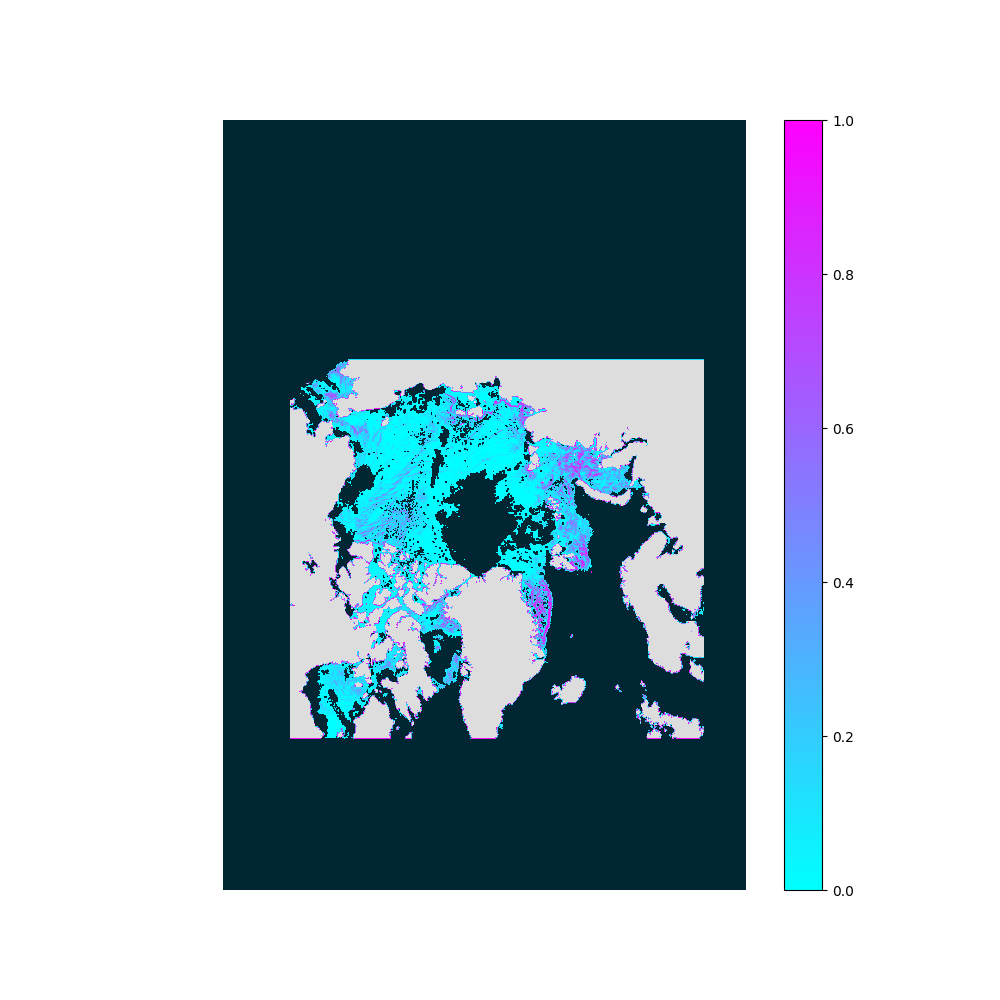
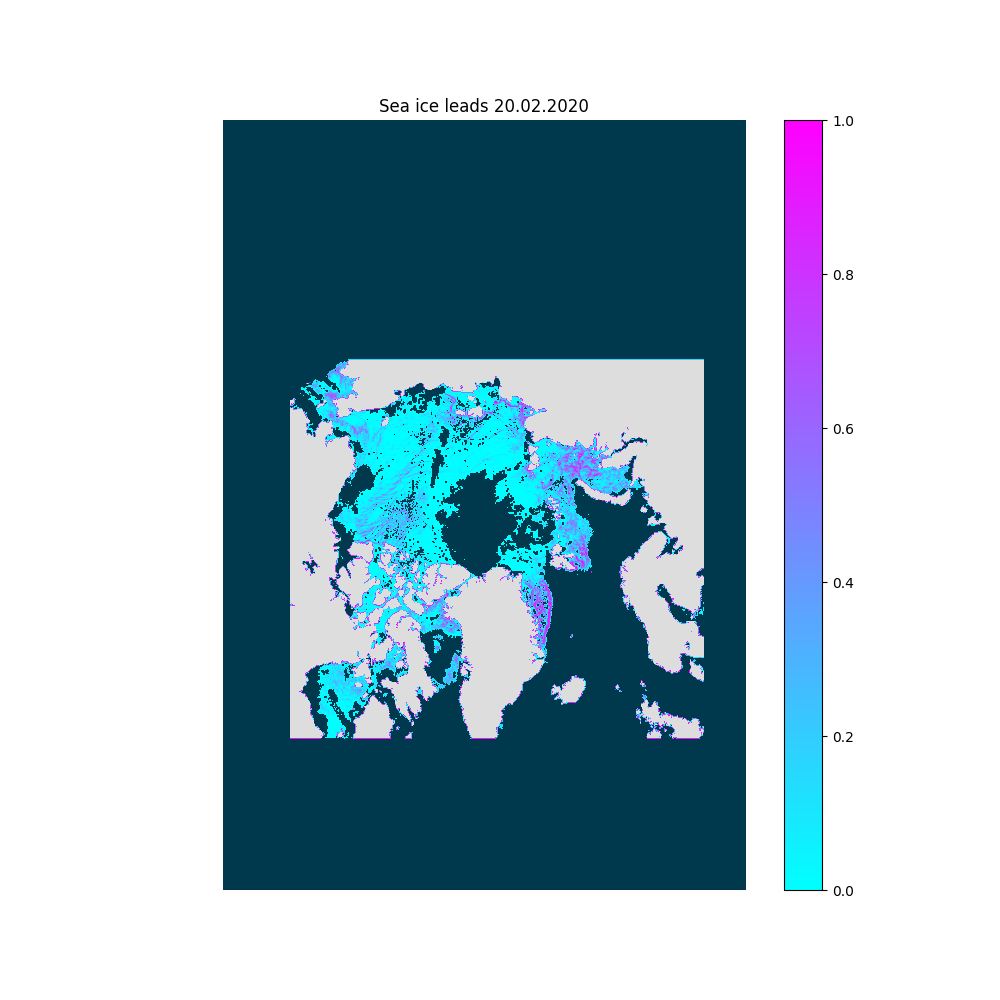
clear rows, cols with no data from lead_frac matrix

Changed region(s): [[0.217, 0.093, 0.744, 0.899], [0.341, 0.589, 0.372, 0.62]]

diff --git a/leads.py b/leads.py
@@ -1,5 +1,6 @@
 import netCDF4 as nc
 import matplotlib.pyplot as plt
+import numpy as np
 
 
 class Lead:
@@ -9,23 +10,41 @@ class Lead:
         path = f'./data/{self.date}.nc'
         ds_lead = nc.Dataset(path)
         self.lead_frac = ds_lead['Lead Fraction'][:]
+        self.del_row, self.del_col = [], []
+
+    def clear_matrix_ind(self, trigger=-0.1):
+        # Returns indices of rows and columns without any data
+        trigger = np.float32(trigger)
+        m, n = self.lead_frac.shape
+        row_clear, col_clear = np.repeat(trigger, n), np.repeat(trigger, m)
+        print(type(trigger), trigger, type(self.lead_frac[0][0]), self.lead_frac[0][10])
+        for i, row in enumerate(self.lead_frac):
+            if np.array_equal(row, row_clear):
+                self.del_row.append(i)
+        for i in range(n):
+            if np.array_equal(self.lead_frac[:, i], col_clear):
+                self.del_col.append(i)
+
+        self.lead_frac = np.delete(self.lead_frac, self.del_row, 0)
+        self.lead_frac = np.delete(self.lead_frac, self.del_col, 1)
 
     def visualize_matrix(self, file_name=None, show=False):
         # very simple visualization of the lead fraction matrix
-        fig, ax = plt.subplots(figsize=(10,10))
+        fig, ax = plt.subplots(figsize=(10, 10))
         if not file_name:
             file_name = f'./plots/{self.date}.png'
-        #'RdYlBu_r'
         im = ax.imshow(self.lead_frac, cmap='cool')
         im.cmap.set_over('#dddddd')
-        im.cmap.set_under('#002633')
+        im.cmap.set_under('#00394d')
 
-        im.set_clim(0, 1.0)
+        im.set_clim(0, 1)
         fig.colorbar(im, ax=ax)
         ax.axis('off')
+        ax.set_title(f'Sea ice leads {self.date[6:]}.{self.date[4:6]}.{self.date[:4]}')
         if show:
             plt.show()
         plt.savefig(file_name)
+        plt.close(fig)
 
 
 class CoordinateGrid:
@@ -38,8 +57,15 @@ class CoordinateGrid:
 
 
 if __name__ == '__main__':
-    days = list(range(17, 22))
-    dates = [f'202002{day}' for day in days]
+    '''
+    days = list(range(1, 29))
+    dates = [f'202002{str(day).zfill(2)}' for day in days]
     for date in dates:
         lead = Lead(date)
         lead.visualize_matrix()
+    '''
+
+    lead = Lead('20200217')
+    print(lead.lead_frac.shape)
+    clear = lead.clear_matrix_ind()
+    print(lead.lead_frac.shape)

diff --git a/plot.py b/plot.py
@@ -1,5 +1,6 @@
 import matplotlib.pyplot as plt
 import cartopy.crs as ccrs
+import numpy
 import numpy as np
 import leads
 
@@ -16,7 +17,8 @@ lead = leads.Lead(date)
 
 print(np.min(grid.lat), np.max(grid.lat))
 print(np.min(grid.lon), np.max(grid.lon))
-
-plt.contourf(grid.lon, grid.lat, lead.lead_frac, cmap='RdYlBu')
-
+lat = grid.lat.flatten()
+lon = grid.lon.flatten()
+#plt.contourf(grid.lon, grid.lat, numpy.zeros(np.shape(grid.lat)), cmap='RdYlBu')
+plt.scatter(lat, lon)
 plt.show()
